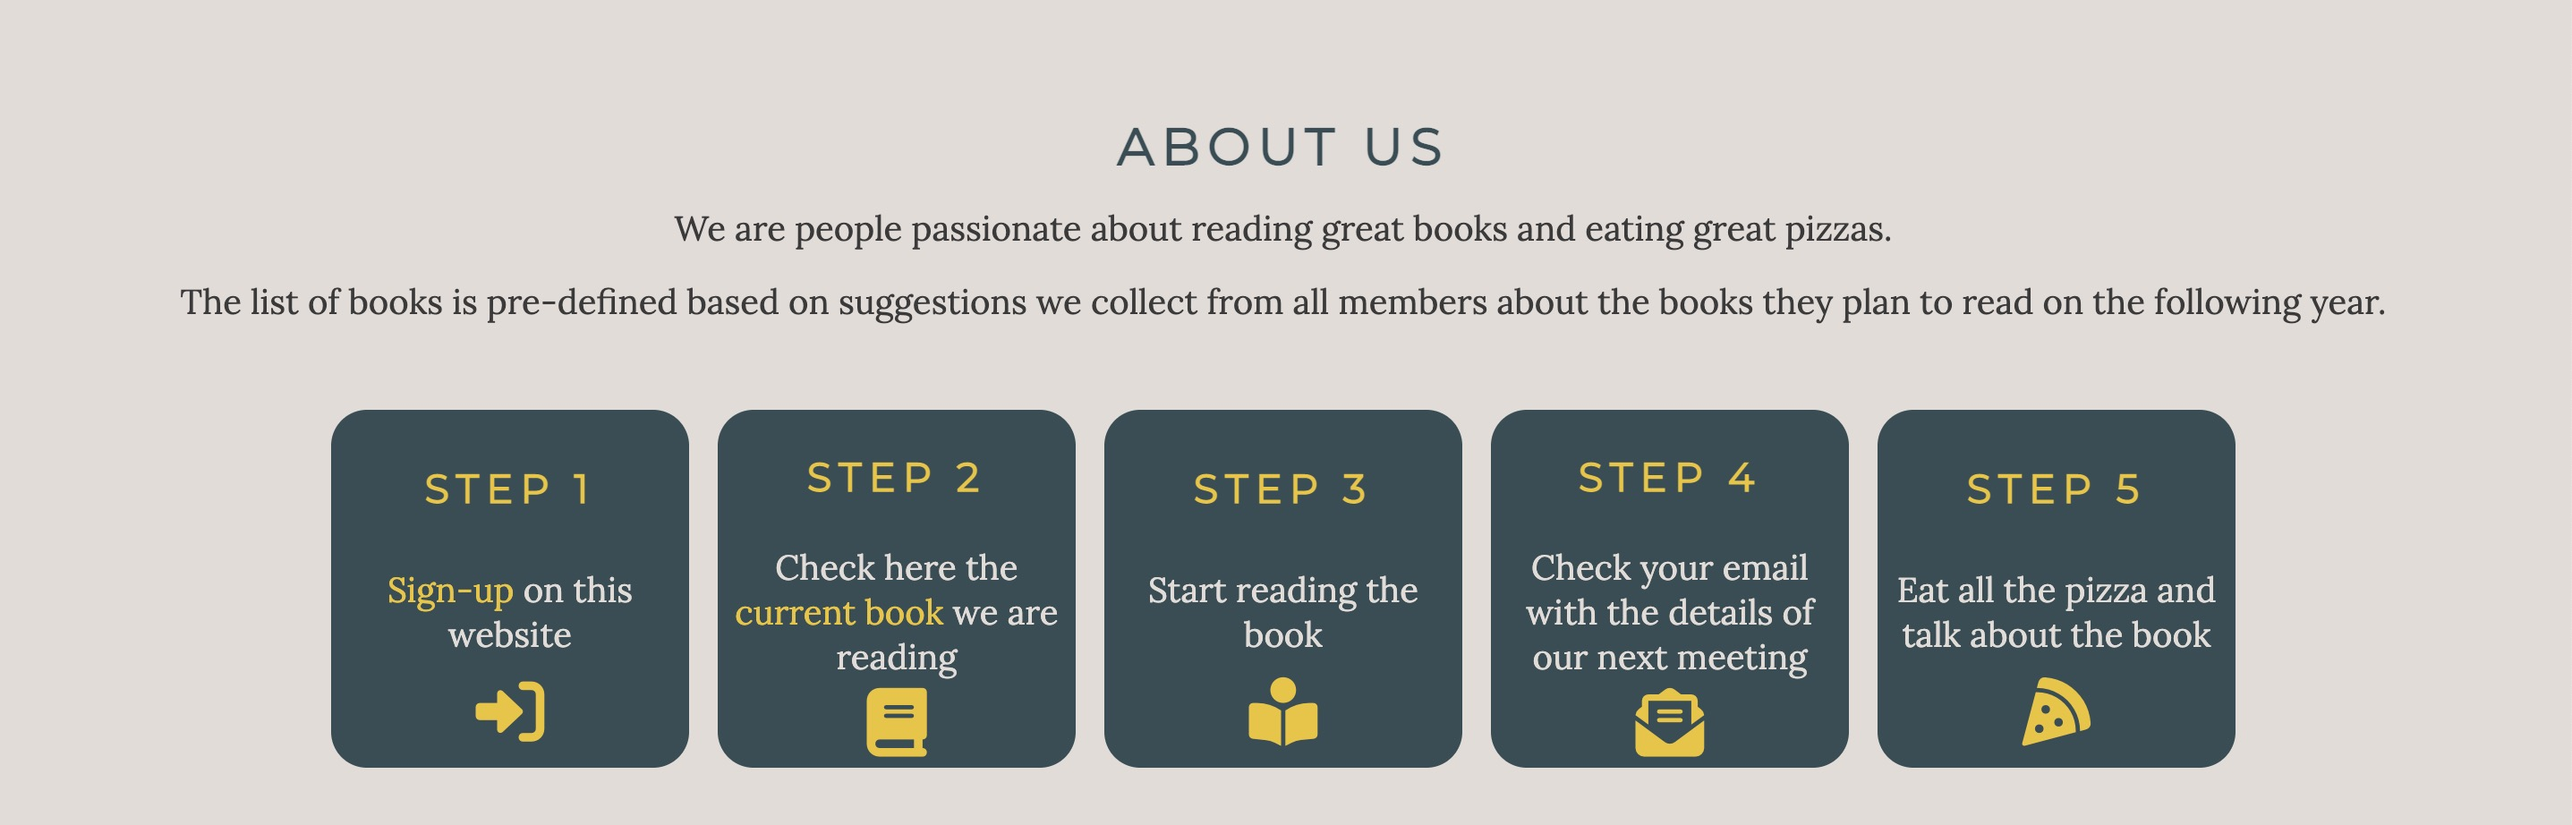
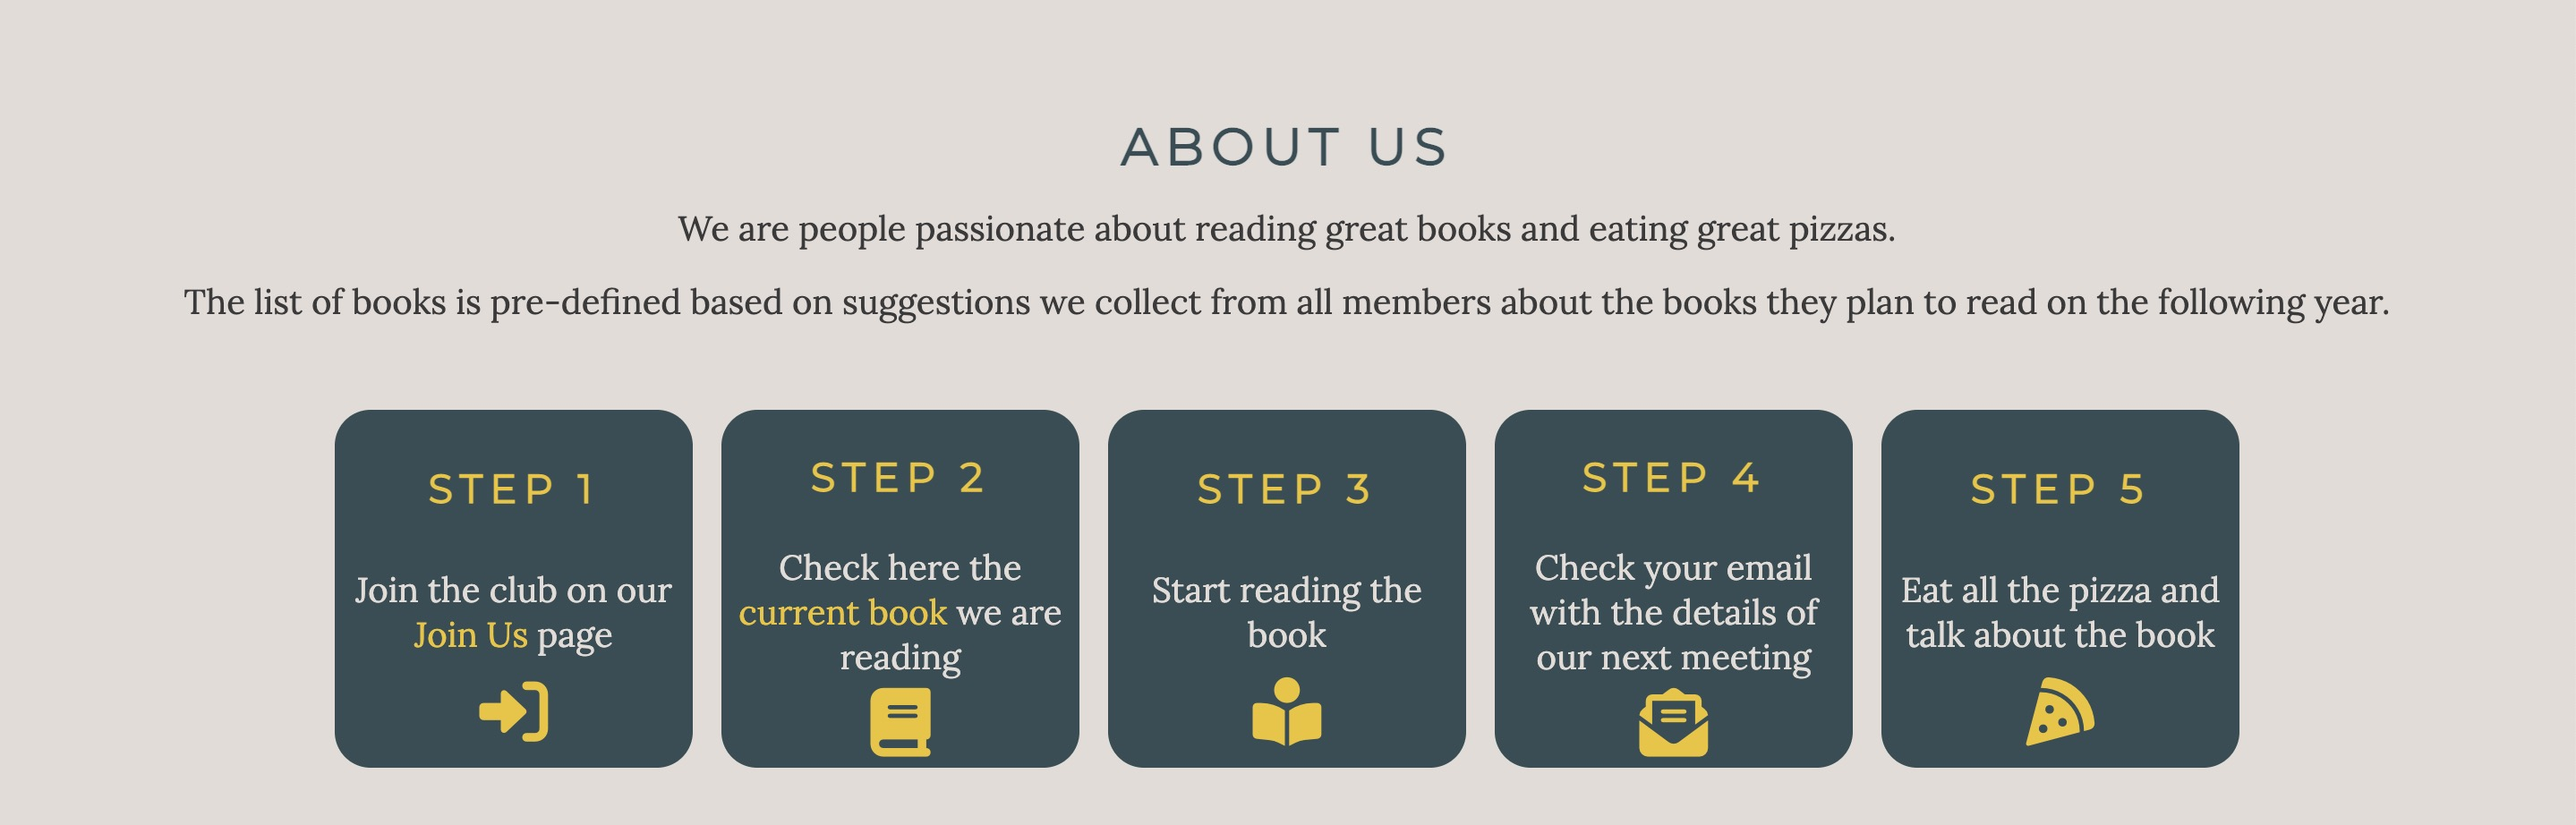
Edit home page about us section step 1 from sign up to join us

diff --git a/index.html b/index.html
@@ -68,7 +68,7 @@
         <div id="container-steps">
             <div class="steps">
                 <h3>Step 1</h3>
-                <p><a href="join-us.html">Sign-up</a> on this website</p>
+                <p>Join the club on our <a href="join-us.html">Join Us</a> page</p>
                 <i class="fa-solid fa-right-to-bracket fa-2xl"></i>
             </div>
 
